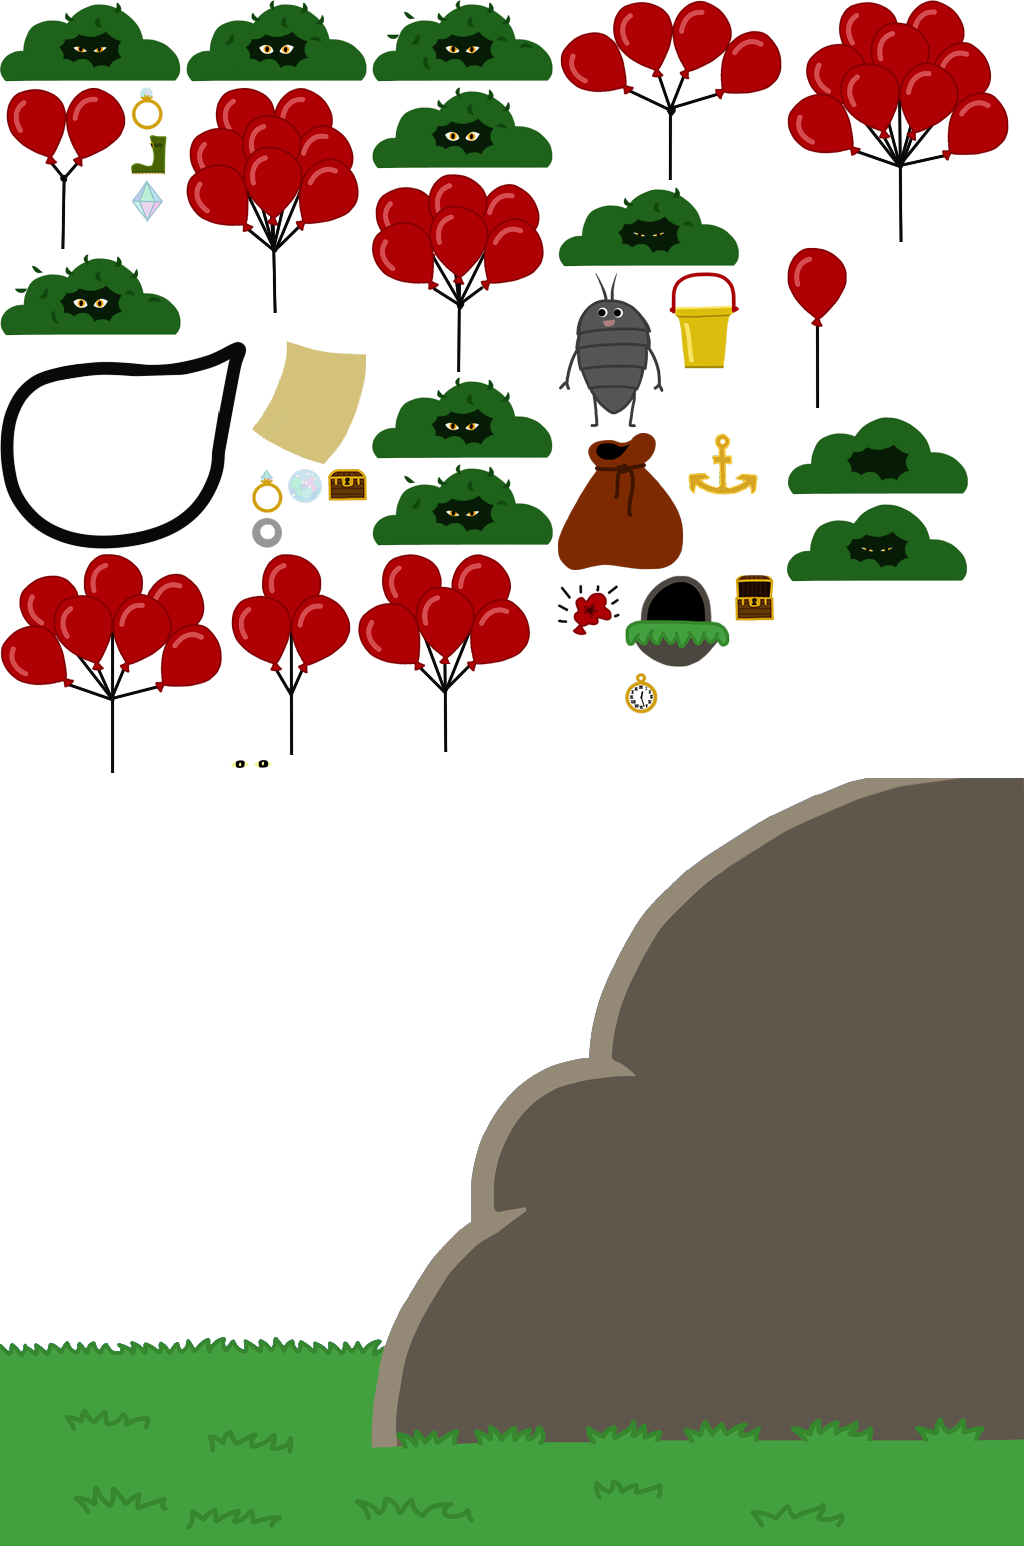
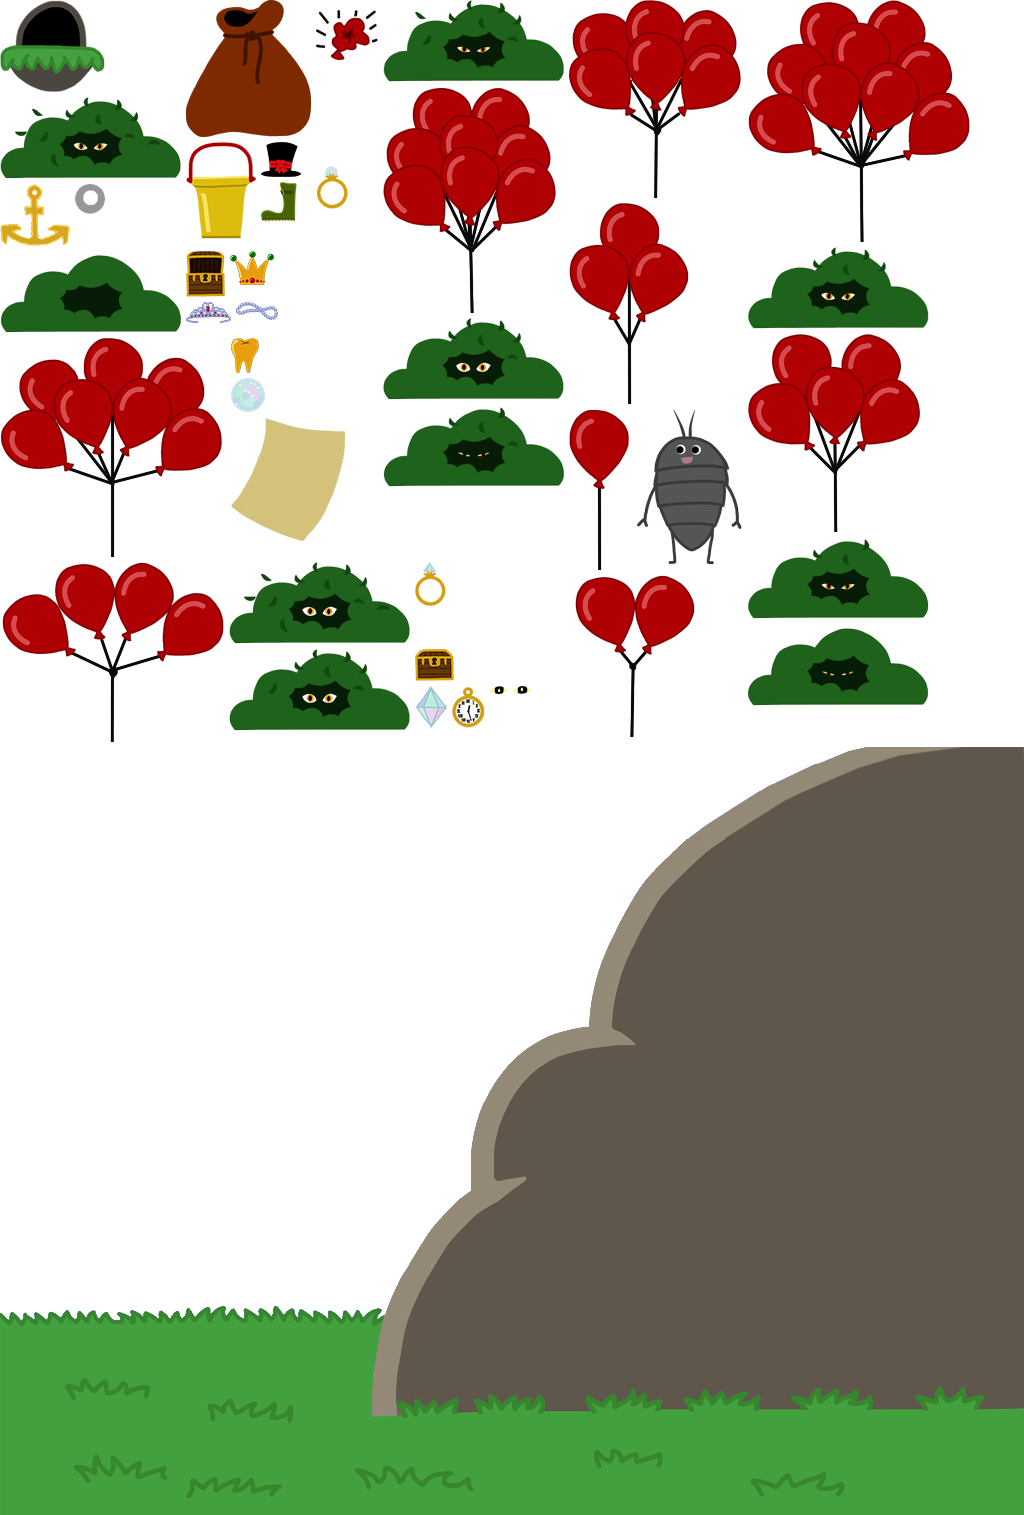
Balloon: New treasures

diff --git a/src/script/states/subgames/BalloonGame.js b/src/script/states/subgames/BalloonGame.js
@@ -609,10 +609,10 @@ BalloonGame.prototype.playRandomPrize = function () {
 	/* The boot is the special prize, it has a low percentage of coming. */
 	var sound;
 	if (this.rnd.frac() < 0.1) {
-		this.treasure.frameName = 'treasure6';
+		this.treasure.frameName = 'treasure11';
 		sound = 'treasureBoot';
 	} else {
-		this.treasure.frameName = 'treasure' + this.rnd.integerInRange(1, 5);
+		this.treasure.frameName = 'treasure' + this.rnd.integerInRange(1, 10);
 		sound = this.rnd.integerInRange(0, 1) ?
 			('yippie' + this.rnd.integerInRange(1, 2)) :
 			('treasure' + this.rnd.integerInRange(1, 2));
